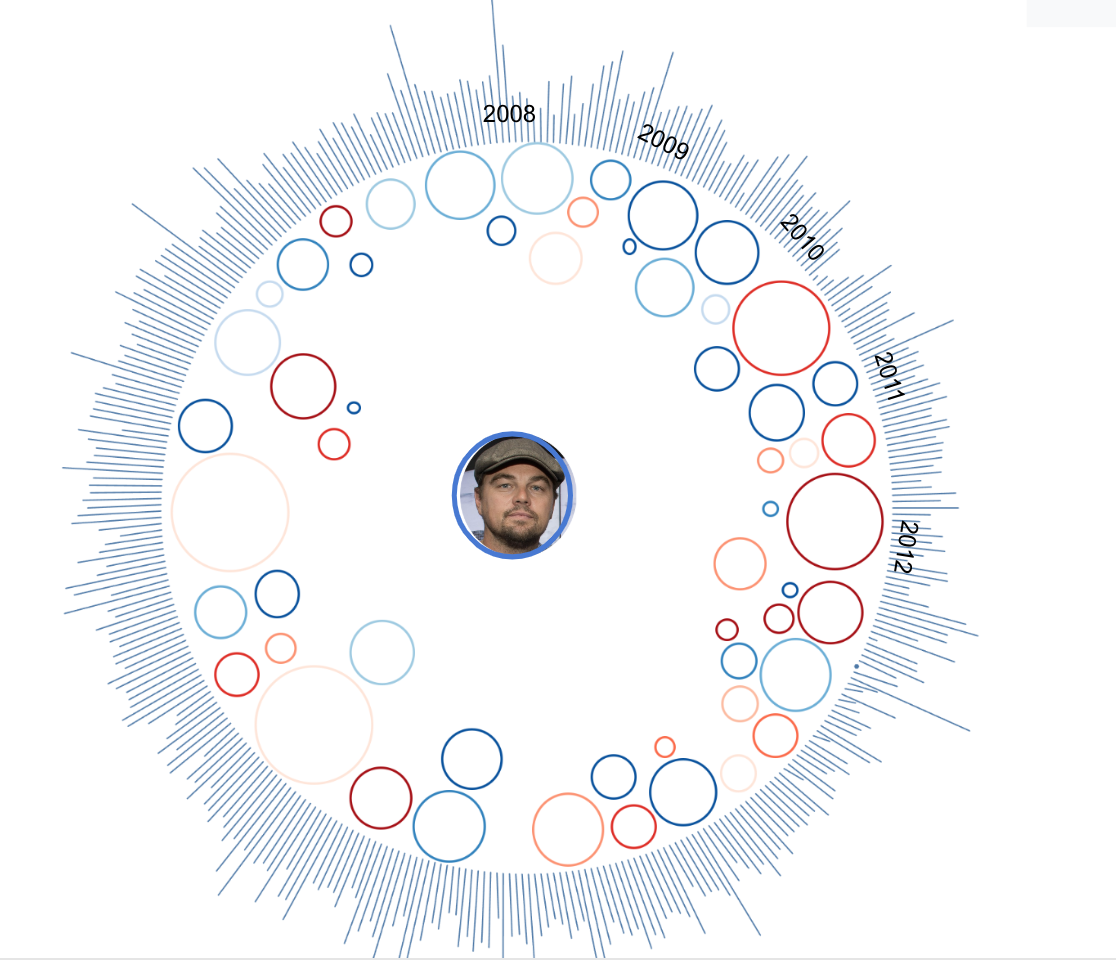
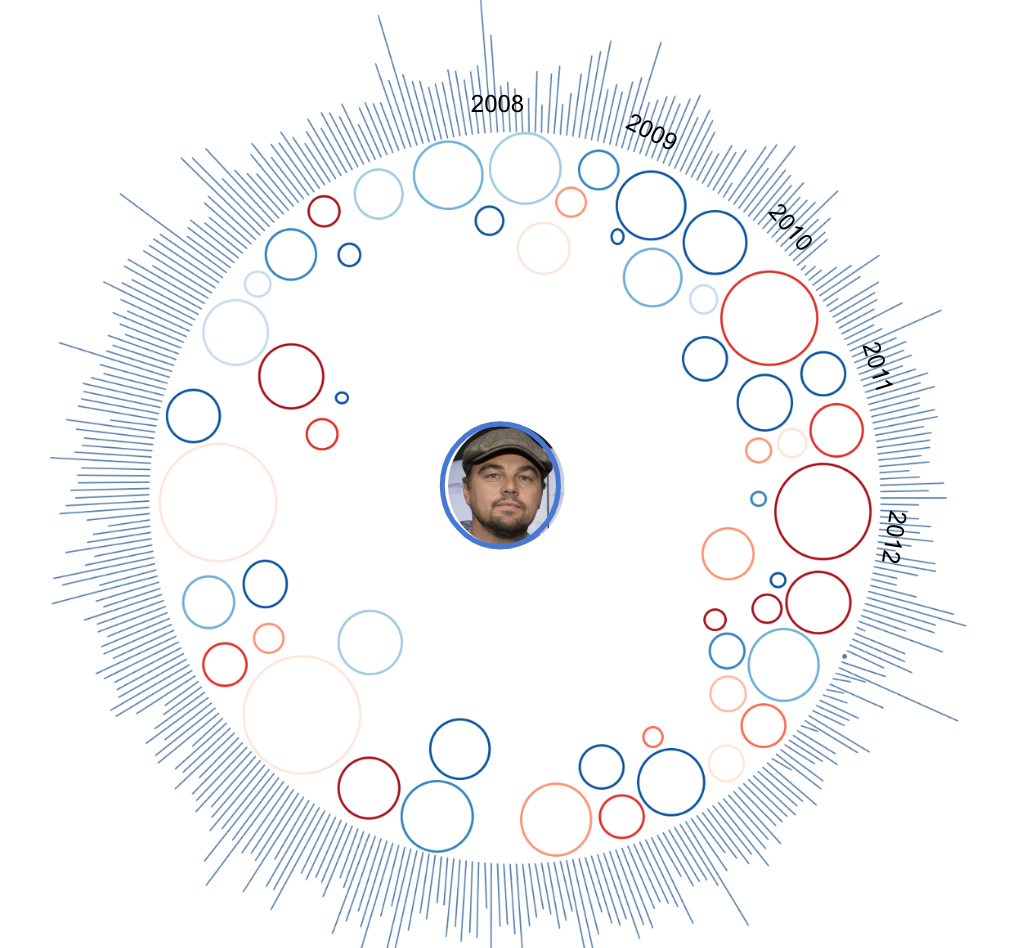
finished dataviz page

Changed region(s): [[0.0612, 0.0306, 0.9487, 1.0], [0.3978, 0.4283, 0.5814, 0.5812], [0.1224, 0.2141, 0.153, 0.2447]]

diff --git a/gpd.html b/gpd.html
@@ -28,11 +28,13 @@
 
 						<!-- Content -->
 							<section id="content" class="main">
-								<span class="image main"><img src="images/pic04.jpg" alt="" /></span>
+								<span class="image main"><img src="images/gpd/gpdcover.png" alt="" /></span>
 								<h2>About Global Product Design </h2>
-								<p></p>
+								<p>Global Product Development (GPD) is a joint course practicing a global and interdisciplinary teaching approach among three institutions in Seoul, Beijing and Hong Kong. Multicultural and multidisciplinary student teams begun by seeking and defining a global user-centered design problem, iterating through design solutions, and finally building working critical function prototypes.</p>
 								<h2>Market research</h2>
-								<p></p>
+								<p>The objective of the market research is to identify target customers, size and global aspects of the potential market segments we are facing. Also we want to make clear the customers’ pain points and their translation into the customer requirements. Moreover, since we are building a global product, we would like to consider it in different countries’ contexts. <br />
+								From the primary research conducted, we identified common problem scenarios like messy bathrooms, over-abundance of female and male bathroom products, and general tiredness in the morning. We conducted our research in different approaches in this stage. Online research is still being carried on in order to get the most from the internet. We also designed questionnaires and conduct interviews to get factual data and examine our current assumptions. <br />
+								we were able to find the specific reasons and pain-points surrounding these observations. It suggests that the psychological origin of this problem to be rooted in human aversion to decision making and general lack of self-discipline. When asked about why they are unable to get up, have breakfast, or organize their bathrooms people cite the abundance of choices and lack of motivation or it just being “hard”. Tasks that require conscious effort and decision making are further dulled by the lack of energy from just getting up. Alarms, sleep-reminders, and coffee are not effective solutions for this market segment. </p>
 								<h2>Critical design</h2>
 								<p></p>
 								<h3>Overall system design</h3>
@@ -54,13 +56,6 @@
 
 				<!-- Footer -->
 					<footer id="footer">
-						<!-- <section>
-							<h2>Aliquam sed mauris</h2>
-							<p>Sed lorem ipsum dolor sit amet et nullam consequat feugiat consequat magna adipiscing tempus etiam dolore veroeros. eget dapibus mauris. Cras aliquet, nisl ut viverra sollicitudin, ligula erat egestas velit, vitae tincidunt odio.</p>
-							<ul class="actions">
-								<li><a href="#" class="button">Learn More</a></li>
-							</ul>
-						</section> -->
 						<section>
 							<h2>Contact me</h2>
 							<dl class="alt">

diff --git a/gpd_market_research.html b/gpd_market_research.html
@@ -1,0 +1,66 @@
+<!DOCTYPE HTML>
+<!--
+	Stellar by HTML5 UP
+	html5up.net | @ajlkn
+	Free for personal and commercial use under the CCA 3.0 license (html5up.net/license)
+-->
+<html>
+	<head>
+		<title>Generic - Stellar by HTML5 UP</title>
+		<meta charset="utf-8" />
+		<meta name="viewport" content="width=device-width, initial-scale=1, user-scalable=no" />
+		<link rel="stylesheet" href="assets/css/main.css" />
+		<noscript><link rel="stylesheet" href="assets/css/noscript.css" /></noscript>
+	</head> 
+	<body class="is-preload">
+
+		<!-- Wrapper -->
+			<div id="wrapper">
+
+				<!-- Main -->
+					<div id="main">
+
+						<!-- Content -->
+							<section id="content" class="main">
+								<span class="image main"><img src="images/pic04.jpg" alt="" /></span>
+								
+							</section>
+
+					</div>
+
+				<!-- Footer -->
+					<footer id="footer">
+						<section>
+							<h2>Contact me</h2>
+							<dl class="alt">
+								<!-- <dt>Address</dt>
+								<dd>1234 Somewhere Road &bull; Nashville, TN 00000 &bull; USA</dd> -->
+								<dt>phone</dt>
+								<dd>(852) 6088-2187</dd> 
+								<dt>email</dt>
+								<dd><a href="mailto:ysunaw@gmail.com">ysunaw@gmail.com</a></dd>
+							</dl>
+							<ul class="icons">
+								<!-- <li><a href="https://https://www.instagram.com/unofficialymm/" class="icon brands fa-twitter alt"><span class="label">Twitter</span></a></li> -->
+								<!-- <li><a href="#" class="icon brands fa-facebook-f alt"><span class="label">Facebook</span></a></li> -->
+								<li><a href="https://www.instagram.com/unofficialymm/" class="icon brands fa-instagram alt"><span class="label">Instagram</span></a></li>
+								<li><a href="https://github.com/ysunaw/" class="icon brands fa-github alt"><span class="label">GitHub</span></a></li>
+								<li><a href="#" class="icon brands fa-linkedin alt"><span class="label">Linkedin</span></a></li>
+							</ul>
+						</section>
+						<p class="copyright">made by yimeng sun. </p>
+					</footer>
+
+			</div>
+
+		<!-- Scripts -->
+			<script src="assets/js/jquery.min.js"></script>
+			<script src="assets/js/jquery.scrollex.min.js"></script>
+			<script src="assets/js/jquery.scrolly.min.js"></script>
+			<script src="assets/js/browser.min.js"></script>
+			<script src="assets/js/breakpoints.min.js"></script>
+			<script src="assets/js/util.js"></script>
+			<script src="assets/js/main.js"></script>
+
+	</body>
+</html>

diff --git a/dataviz.html b/dataviz.html
@@ -59,10 +59,21 @@
 								<h2>Final design components</h2>
 								<h3>Overview of the movie industry</h3>
 								<p>Looking at the expansion of the movie industry throughout time and the actors that had/have a predominant role in that expansion.</p>
-								<p>PLACEHOLDER: COPY THE WEBSITE</p>
-								<h2>Building the website</h2>
-								<p>PLACEHOLDER: COPY THE WEBSITE</p>
-								<ul class="actions special">
+								<span class="image fit"><img src="images/dataviz/final1.png" alt="" /></span>
+								<h2>Specific genre picture</h2>
+								<p>Find out about actors of a specific genre and from a time period undiscovered yet by the user. <br />
+								Here filtered based on “Comedy” and “Romance” movies from 1930 to 1965. </p>
+								<span class="image fit"><img src="images/dataviz/final2.png" alt="" /></span>
+								<h2>Specific actor profile</h2>
+								<p>Whenever the user knows about an actor and would like to have a summary of the movies she/he has been in.<br />
+								</p>
+								<span class="image fit"><img src="images/dataviz/final3.png" alt="" /></span>
+								<h2>Data Preprocessing</h2>
+								<p>IMDB data: From https://www.kaggle.com/rounakbanik/the-movies-dataset<br />
+								Data cleaning: Only selecting movies that were released<br />
+								Feature engineering: Study feature correlation<br />
+								Output popularity score of each movie. Weights for popularity were calculated to take into account vote average and release date. </p>
+									<ul class="actions special">
 										<li><a href="index.html" class="button">Back to main</a></li>
 									</ul>
 							</section>
